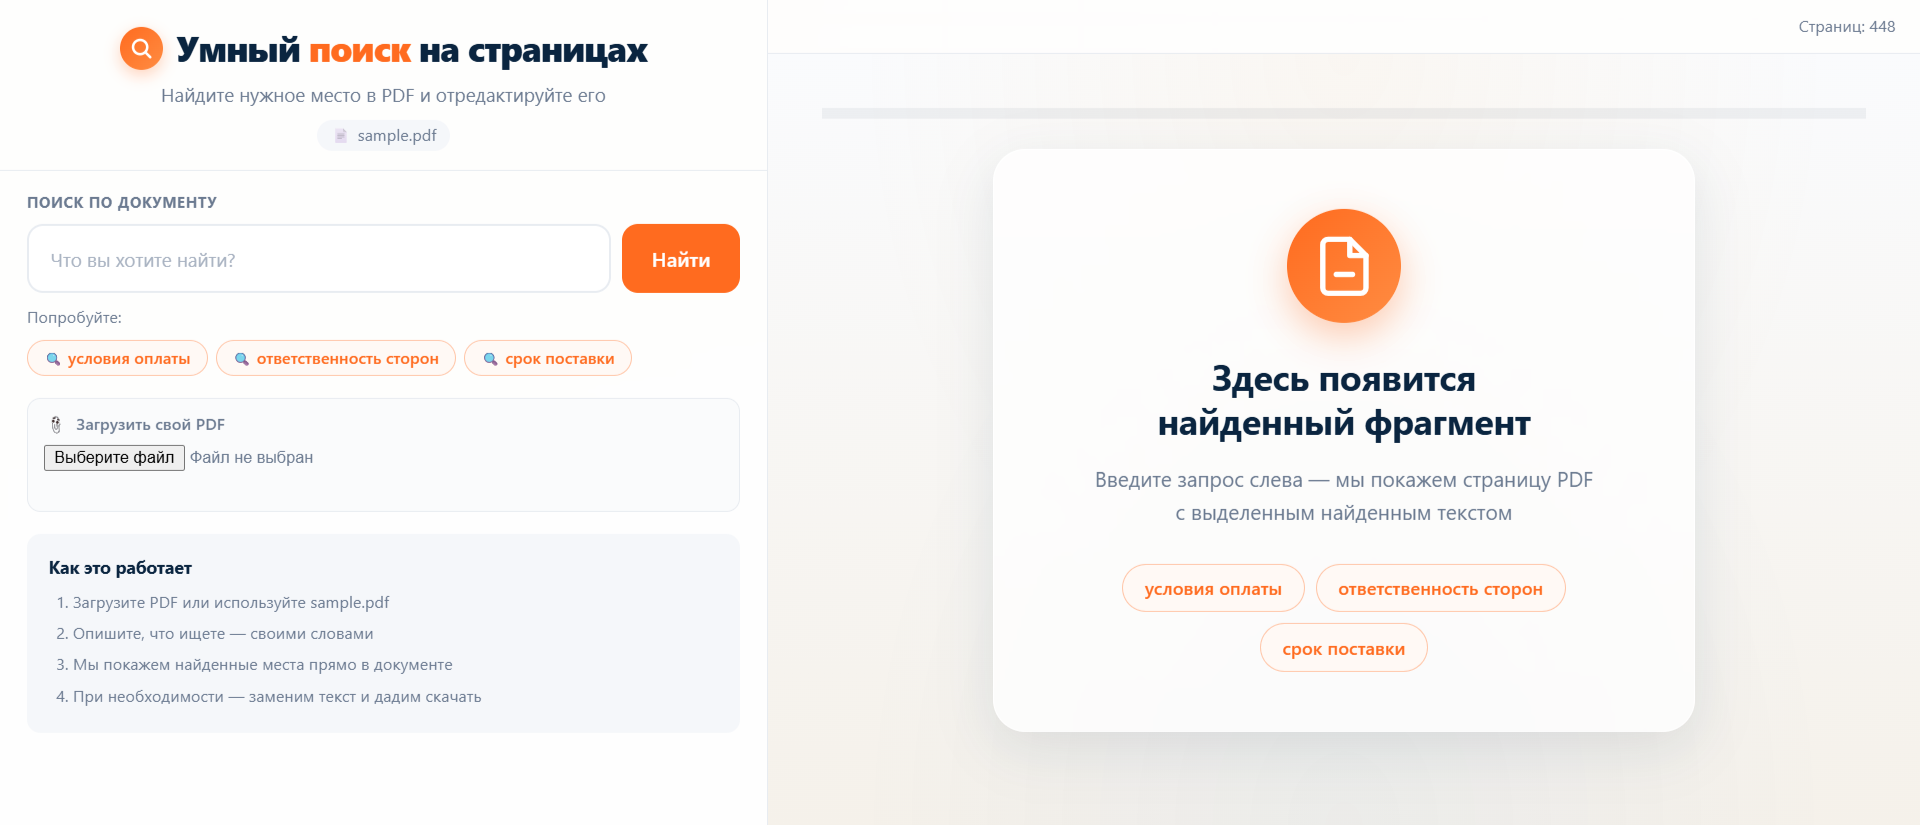
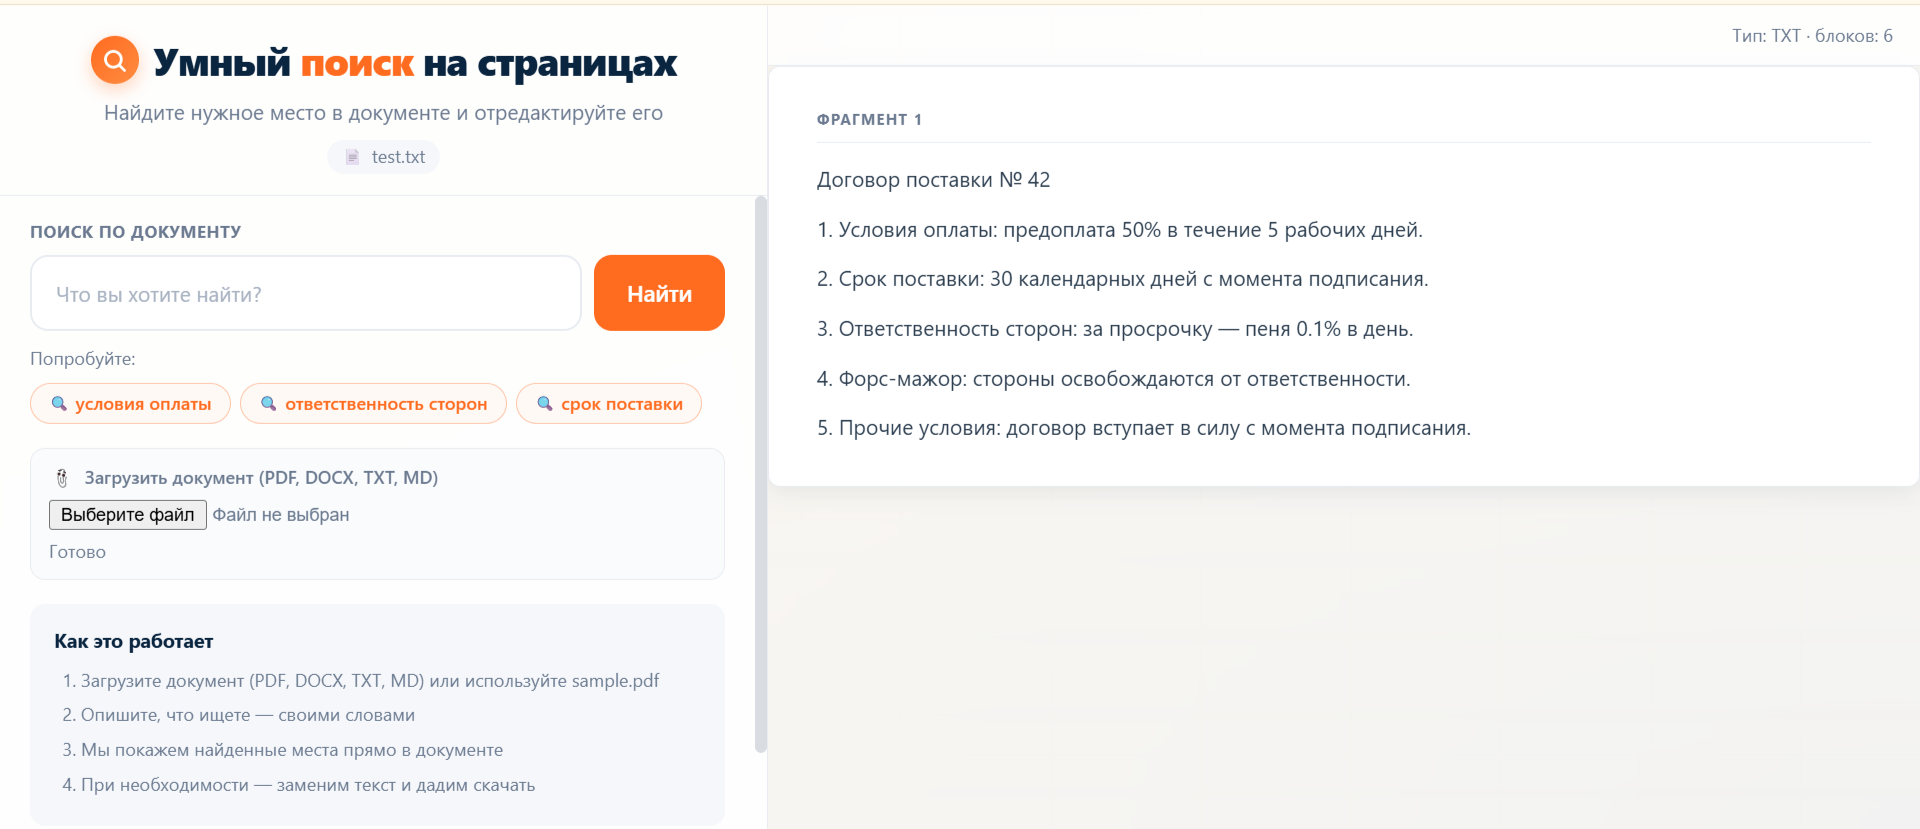
Update README with badges and screenshots for DOCX/TXT/MD support

diff --git a/README.md b/README.md
@@ -11,8 +11,6 @@
 
 ![Главный экран](docs/screenshots/1-main.png)
 
-![Главный экран](docs/screenshots/1-main.png)
-
 ---
 
 ## Возможности
